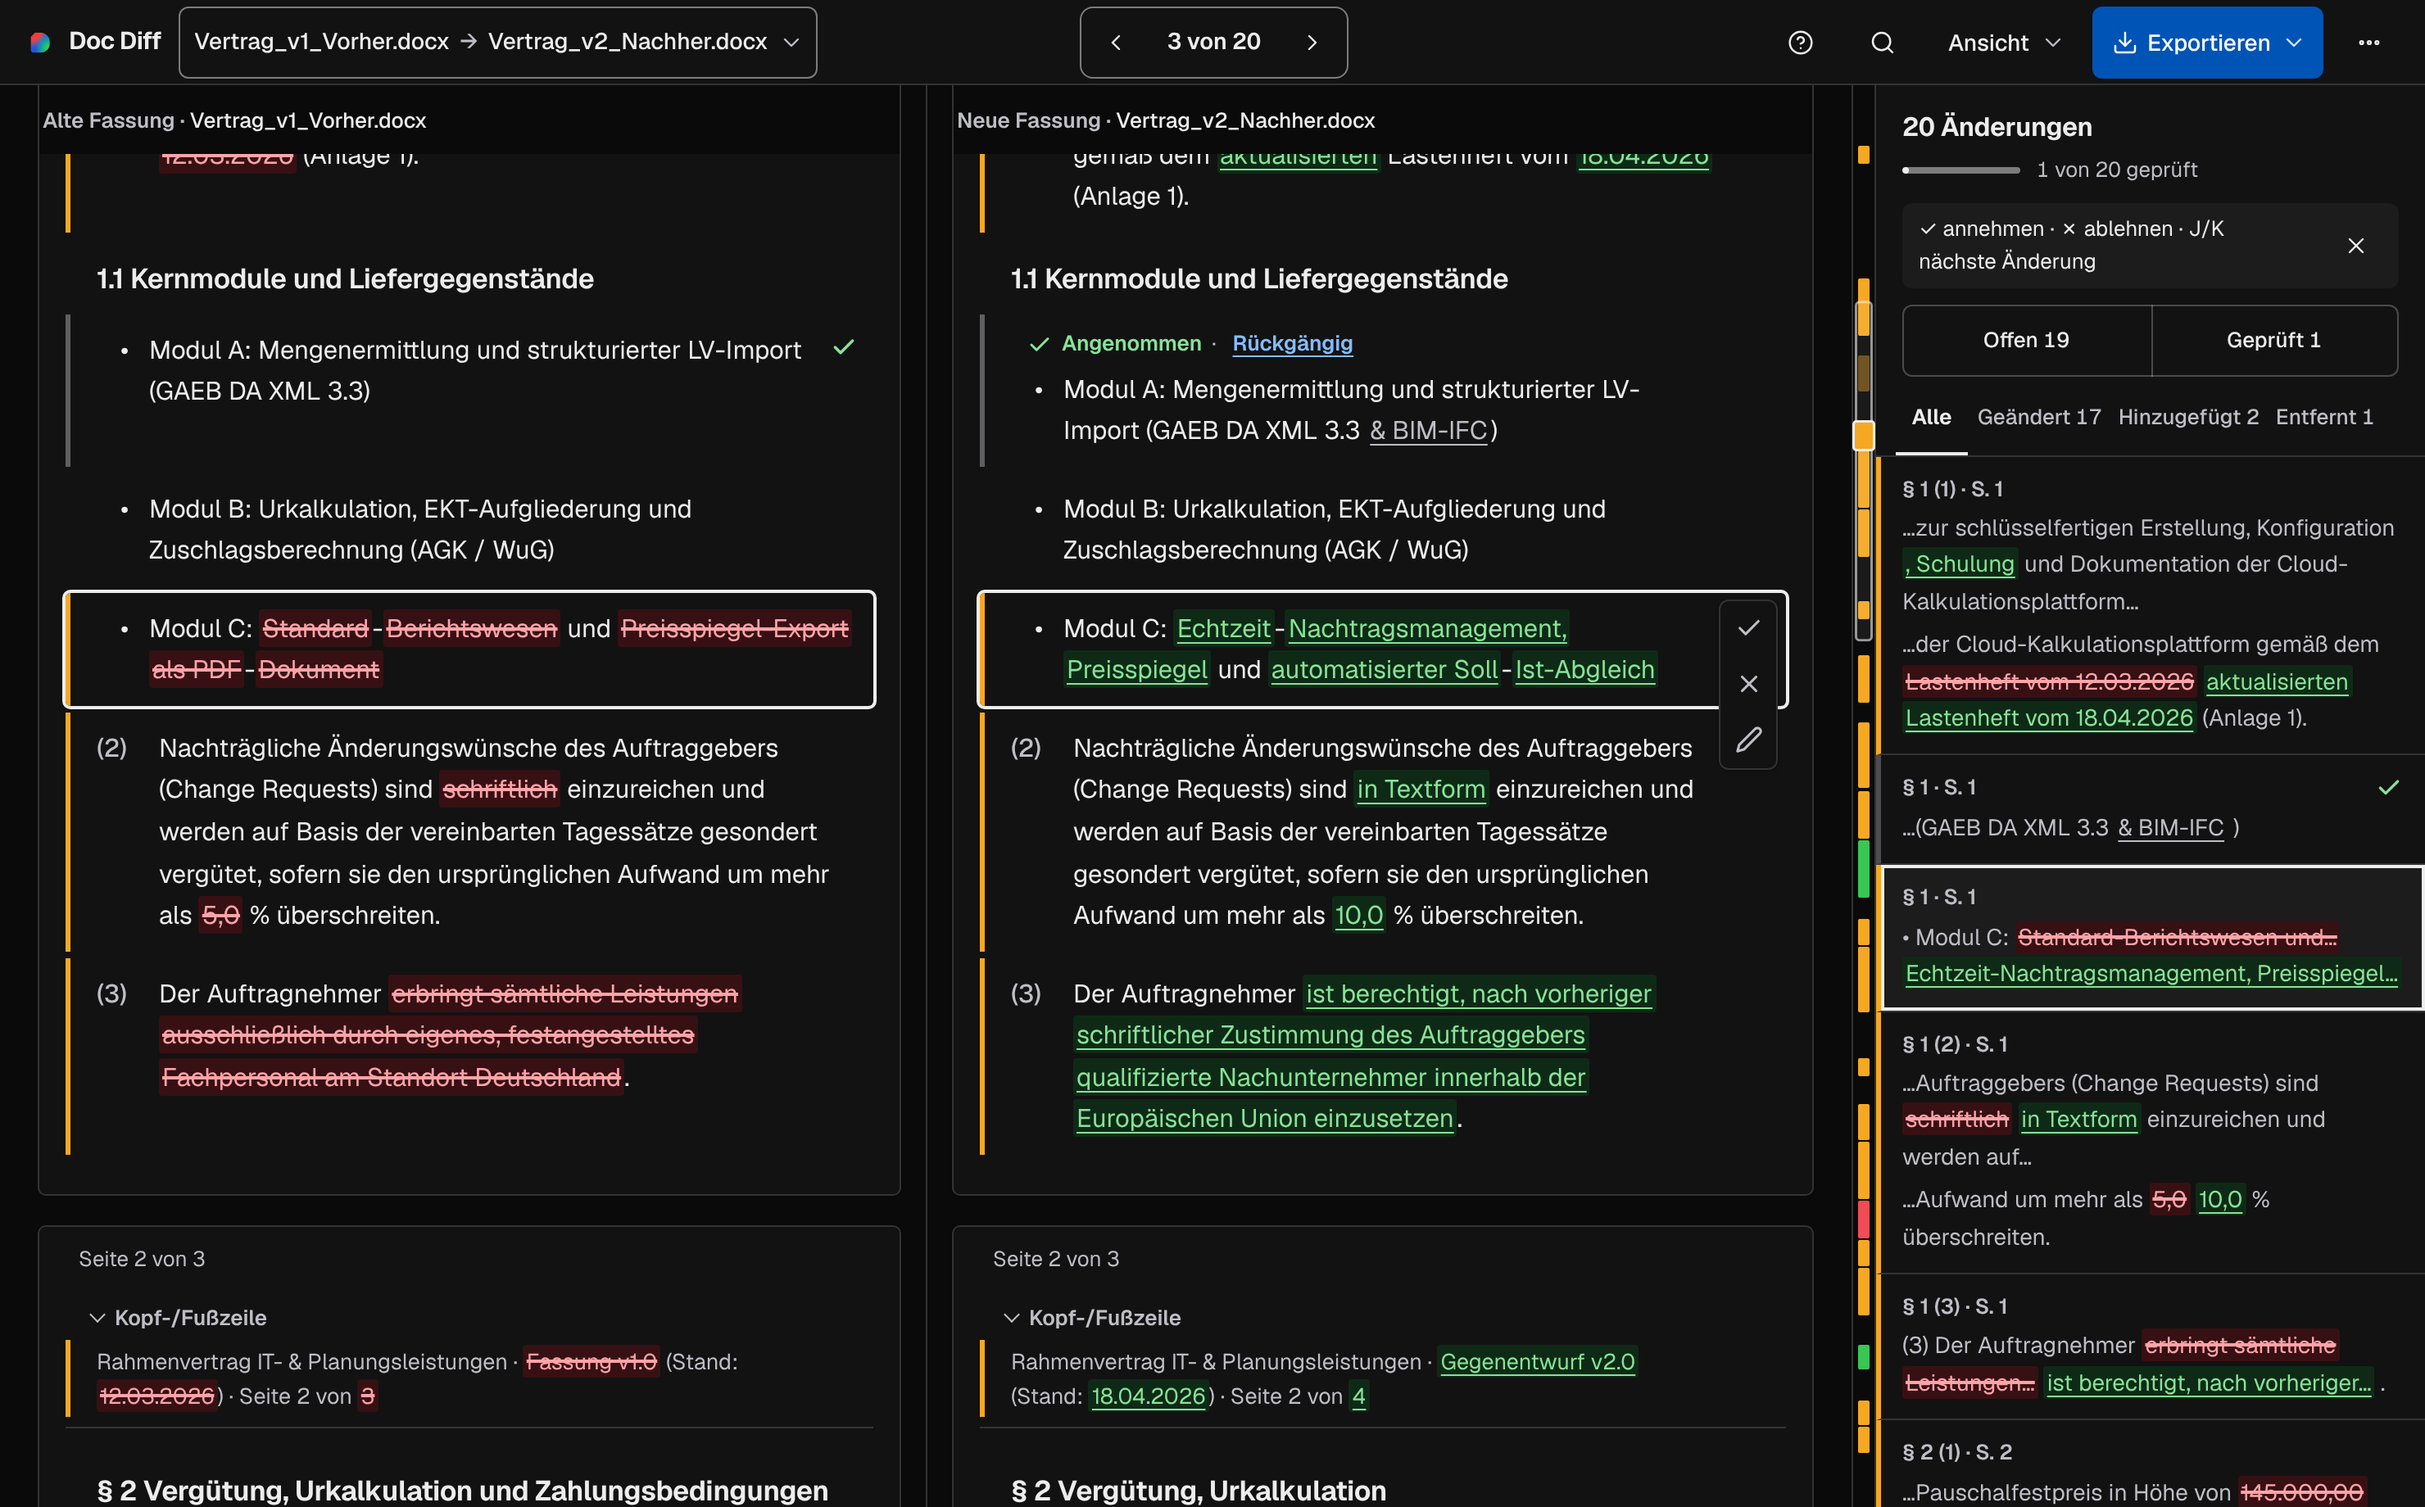
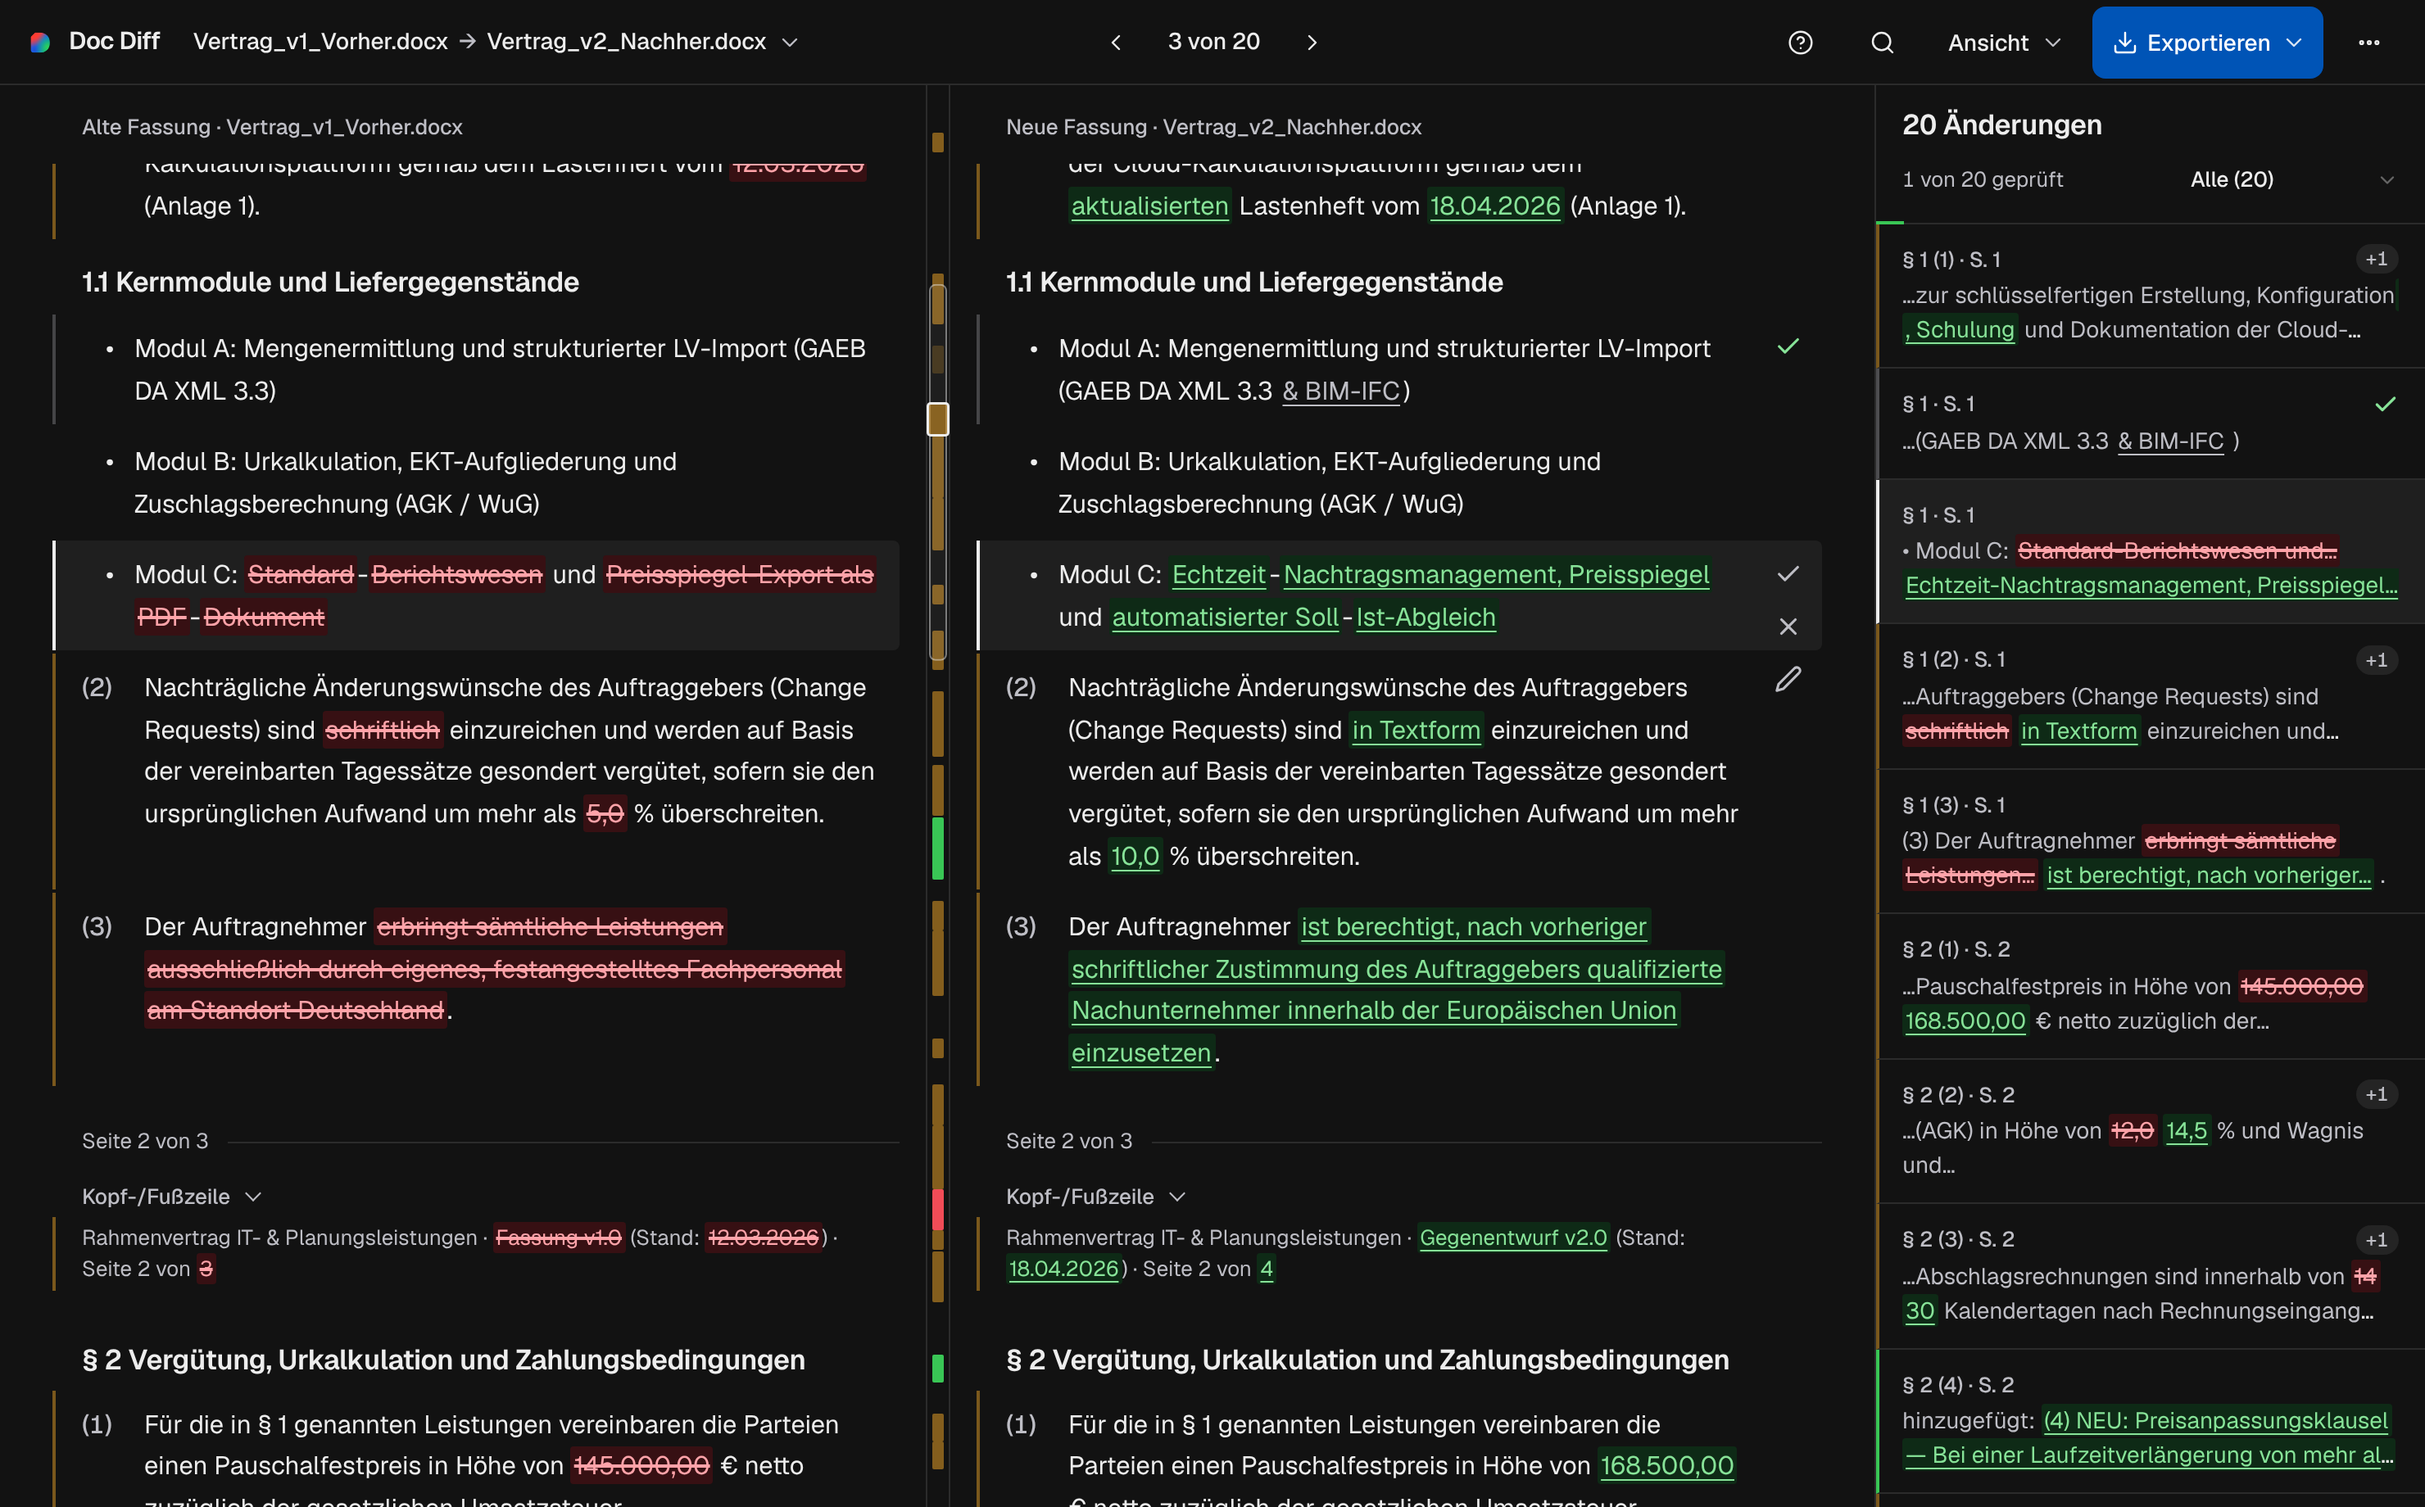
Refresh README screenshots and v1.5.0 release notes for the polished UI
Claude-Session: https://claude.ai/code/session_01KgQ1PFoGfZMrXQmhBk2wgG

diff --git a/docs/releases/v1.5.0.md b/docs/releases/v1.5.0.md
@@ -5,10 +5,14 @@ This release is mostly about getting the comparison right and making the review 
 ## Review changes
 
 - **Accept or reject each change**, as in Word: accepting keeps the new wording, rejecting restores the old wording of that paragraph. Both mark the change as reviewed, move on to the next open change, and can be undone. The change list shows how many changes are still open.
-- **Calmer comparison view:** one top bar (files, previous/next change, search, view, export, more) instead of five bars and a floating dock. The change list is the only place with counts.
-- **Overview bar** next to the text shows where the changes are and where you are; click or drag to jump.
+- **Calmer comparison view:** one top bar (files, previous/next change, search, view, export, more) instead of five bars and a floating dock. Each version sits on one plain surface; page breaks are a thin labelled line instead of framed cards. The current change is a soft tint with a dark edge instead of a heavy black ring, and changed paragraphs get a thin, light edge so the red and green words carry the meaning.
+- **Reviewing never moves the text.** A reviewed paragraph shows a ✓ or ✗ in its right margin, with an undo arrow below it.
+- **Compact change list:** a title, the review progress and one filter (all, open, reviewed, or a kind of change). Each entry shows the reference and the first change in at most two lines; further changes in the same paragraph are counted as "+1", "+2".
+- **Overview bar** between the two versions shows where the changes are and where you are; click or drag to jump. In the one-column view it sits next to the text.
+- **View menu** with clear choices for the layout (side by side / stacked) and the colour scheme (light / dark / system).
+- **Phones and tablets:** short file names that keep the distinguishing part ("v1_Vorher → v2_Nachher"), a bottom bar with previous/next, the change list and export, and the list as a bottom sheet.
 - **Find in document** with highlighted matches and previous/next.
-- **Larger, clearer text**, consistent colours (red removed, green added, a side bar for changed paragraphs, blue only for actions) and AAA text contrast in light and dark mode.
+- **One small design system** (spacing, three corner radii, one border colour, two font weights), larger, clearer text, consistent colours (red removed, green added, a thin edge for changed paragraphs, blue only for actions) and AAA text contrast in light and dark mode.
 
 ## Correctness
 

diff --git a/README.md b/README.md
@@ -50,8 +50,8 @@ It was written with German contracts in mind (`§ 1`, `(1)`, `1.1` clause number
   - Renumbering alone (`(1)` → `(2)`, `§ 4` → `§ 5`) is shown in a muted style and not counted as a change.
   - Paragraphs that moved unchanged are labelled "Moved" at both positions.
   - Hyphenated line breaks in PDFs are joined.
-- **Views:** side by side or one column (default on phones), with or without the original page breaks. An overview bar next to the text shows where the changes are.
-- **Review:** accept a change (keep the new wording) or reject it (restore the old wording of that paragraph) with the small ✓ / ✗ buttons next to the current paragraph or `A` / `R`; both mark it as reviewed, move on to the next open change and can be undone. The same header or footer change on several pages is one decision. The list of changes can be filtered by review status and by kind of change. Paragraphs of the new version can also be edited in place.
+- **Views:** side by side or one column (default on phones), with or without the original page breaks. An overview bar between the two versions (next to the text in one column) shows where the changes are; click it to jump.
+- **Review:** accept a change (keep the new wording) or reject it (restore the old wording of that paragraph) with the small ✓ / ✗ buttons next to the current paragraph or `A` / `R`; both mark it as reviewed, move on to the next open change and leave a quiet ✓ or ✗ in the margin, with an undo arrow below it. The same header or footer change on several pages is one decision. The list of changes can be filtered by review status or by kind of change. Paragraphs of the new version can also be edited in place.
 - **Export:**
   - Word `.docx` in which open changes are tracked changes (accept or reject them in Word or LibreOffice) and changes accepted in Doc Diff are already applied
   - PDF via the browser's print dialog
